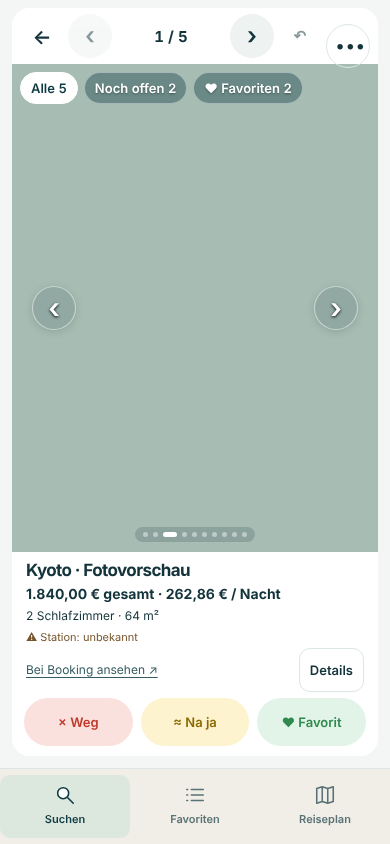
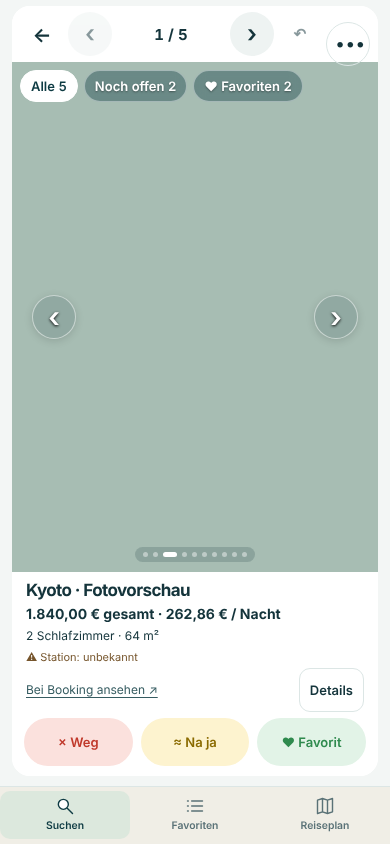
0.35.1: Durchsehen am iPhone (Kopf unter Statusleiste erreichbar, Foto füllt Platz), flachere Leiste unten, Reise/Profil/Technik als ein Bereich im Suchkopf, Suchen oben mit Löschen (W105) (#32)
Claude-Session: https://claude.ai/code/session_01Pp3gvFdCj4nmbdfVrNnz4G

diff --git a/app.js b/app.js
@@ -3,7 +3,7 @@
    Schreibende Aktionen laufen nur nach einem Klick von Sebastian. */
 'use strict';
 
-const APP_VERSION = '0.35.0';
+const APP_VERSION = '0.35.1';
 const API = 'https://sdgzwxiqcijxfpcjpydw.supabase.co/functions/v1/app-api';
 const TOKEN_KEY = 'ks_token';
 
@@ -1022,7 +1022,19 @@ async function viewSuche(idStr, { historyOnly = false } = {}) {
     }
     if (historyOnly) { recent.append(refresh, recentNotice, list); recent.append(el('p', { class: 'small muted' }, 'Hier stehen die letzten zehn Suchaufträge. Die gemeinsame Merkliste umfasst alle Reisen. Rohdaten werden nach 30 Tagen entfernt.')); }
     else { recent.classList.add('recent-compact'); recent.firstElementChild.textContent = 'Deine Suchen'; recent.append(recentNotice, list); }
-    scope.append(recent);
+    // W105 (Sebastian 20.10.): Suchen nicht unten verstecken – ohne Score stehen sie über dem Formular, je Suche „Löschen“ (Papierkorb, 30 Tage)
+    if (!historyOnly && !SUCHE_SCORE_AN) { recent.classList.add('a-suchen'); scope.insertBefore(recent, form); } else scope.append(recent);
+    let undoRow = null;
+    async function loeschen(a) {
+      recentNotice.textContent = '„' + a.ziel + '“ wird gelöscht …';
+      try {
+        await call('unterkunft_suchauftrag_loeschen', { suchauftrag_id: a.id }); if (!live()) return;
+        undoRow = a; await loadRecent();
+        recentNotice.replaceChildren('„' + a.ziel + '“ liegt im Papierkorb (30 Tage). ', el('button', { type: 'button', class: 'link-button', onclick: async () => {
+          try { await call('unterkunft_suchauftrag_wiederherstellen', { suchauftrag_id: undoRow.id }); undoRow = null; if (live()) await loadRecent(); } catch (e) { if (live()) recentNotice.textContent = e.message; }
+        } }, 'Rückgängig'));
+      } catch (e) { if (live()) recentNotice.textContent = /läuft|wartet/.test(e.message) ? 'Diese Suche läuft noch – bitte erst abbrechen.' : e.message; }
+    }
     const historyProfiles = el('section', { class: 'card' }, el('h2', {}, 'Gespeicherte Suchprofile'));
     if (historyOnly) scope.append(historyProfiles);
     async function loadHistoryProfiles() {
@@ -1042,15 +1054,17 @@ async function viewSuche(idStr, { historyOnly = false } = {}) {
         if (!Array.isArray(rows)) throw new Error('Unerwartete Antwort beim Lesen der letzten Suchaufträge.');
         if (!historyOnly) {
           const today = new Date().toISOString().slice(0, 10);
+          const zeile = a => SUCHE_SCORE_AN ? row(a) : el('div', { class: 'recent-line' }, row(a), el('button', { type: 'button', class: 'recent-del', 'aria-label': 'Suche ' + a.ziel + ' löschen', title: 'Löschen (Papierkorb, 30 Tage wiederherstellbar)', disabled: ['laeuft', 'wartet'].includes(a.status), onclick: () => loeschen(a) }, stayIcon('raus')));
           const row = a => el('a', { class: 'recent-row' + (a.abreise < today || ['abgebrochen', 'fehler'].includes(a.status) ? ' is-past' : ''), href: '#/suche/' + a.id },
             el('span', { class: 'recent-date' }, el('b', {}, String(new Date(a.anreise).getDate())), el('small', {}, new Date(a.anreise).toLocaleDateString('de-DE', { month: 'short' }))),
             el('span', { class: 'recent-main' }, el('strong', {}, a.ziel), el('small', {}, `${a.naechte ?? Math.round((Date.parse(a.abreise) - Date.parse(a.anreise)) / 86400000)} Nächte · ${a.treffer ?? '–'} Unterkünfte${sucheZahl(a.gemerkt) > 0 ? ' · ♥ ' + a.gemerkt : ''}${['laeuft', 'wartet'].includes(a.status) ? ' · läuft …' : a.status === 'abgebrochen' ? ' · abgebrochen' : ''}`)),
             el('span', { class: 'recent-go', 'aria-hidden': 'true' }, '›'));
           const sorted = [...rows].sort((x, y) => (y.abreise >= today) - (x.abreise >= today) || String(x.anreise).localeCompare(String(y.anreise)));
           const upcoming = sorted.filter(a => a.abreise >= today && a.status !== 'abgebrochen'), older = sorted.filter(a => !upcoming.includes(a));
-          list.replaceChildren(...upcoming.map(row), older.length ? el('details', { class: 'recent-older' }, el('summary', {}, `Frühere und abgebrochene Suchen (${older.length})`), ...older.map(row)) : '');
+          list.replaceChildren(...upcoming.map(zeile), older.length ? el('details', { class: 'recent-older' }, el('summary', {}, `Frühere und abgebrochene Suchen (${older.length})`), ...older.map(zeile)) : '');
+          recent.hidden = !SUCHE_SCORE_AN && !rows.length;
           if (!rows.length) list.append(el('p', { class: 'muted' }, 'Noch keine Suche. Oben Ort und Daten eintragen.'));
-          recentNotice.textContent = ''; return;
+          if (!undoRow) recentNotice.textContent = ''; return;
         }
         list.replaceChildren(...rows.map((a) => el('article', { class: 'recent-trip' }, el('a', { class: 'recent-trip-content', href: '#/suche/' + a.id }, el('span', { class: 'eyebrow' }, 'Suche #' + a.id), el('strong', {}, a.ziel), el('span', {}, `${fmtDate(a.anreise)}–${fmtDate(a.abreise)}`), el('span', { class: 'recent-trip-meta' }, `${a.treffer ?? '–'} Treffer · ${a.status || 'Status unbekannt'} ↗`)), sucheZahl(a.gemerkt) > 0 ? el('a', { href: '#/suche/' + a.id + '?favoriten=1', class: 'small' }, 'Favoriten in ' + a.ziel) : null)));
         if (!rows.length) list.append(el('div', { class: 'stay-empty' }, el('strong', {}, 'Die nächste Reise beginnt hier.'), el('p', {}, 'Sobald du eine Suche startest, findest du hier ihren Fortschritt und ihre Ergebnisse.'), historyOnly ? el('a', { href: '#/suche' }, 'Erste Unterkunft suchen →') : null));

diff --git a/stay-form.js b/stay-form.js
@@ -421,9 +421,26 @@ function sucheSchnellLayout({ form, fields, sections, extended, submit, call, li
   more.append(extended.profilePanel);
   const tripNode = fields.querySelector('.trip-choice');
   if (tripNode) more.append(tripNode);
-  more.append(el('section', { class: 'card stay-form-panel' }, el('h2', {}, 'Land'), label('land')));
-  const p4 = panel('04'); if (p4) more.append(p4);
-  more.append(...(SUCHE_SCORE_AN ? [extended.tripPanel] : []), extended.qualityPanel, extended.filtersPanel);
+  const landPanel = el('section', { class: 'card stay-form-panel' }, el('h2', {}, 'Land'), label('land'));
+  const p4 = panel('04');
+  if (SUCHE_SCORE_AN) { more.append(landPanel); if (p4) more.append(p4); more.append(extended.tripPanel, extended.qualityPanel, extended.filtersPanel); }
+  else {
+    // W105 (Sebastian 20.10.): „Mehr Optionen“ = Reise & Profil. Technik (Land, Quellen, Suchkosten, Zusatz-Notenfilter) zugeklappt und klar benannt –
+    // keine zweite Notenauswahl neben „Gästenote ab“: der Zusatz-Notenfilter steht dort, ist aber standardmäßig aus.
+    more.querySelector(':scope > summary').replaceChildren(stayIcon('regler'), 'Reise, Profil & Technik');
+    more.querySelector(':scope > p').textContent = 'Welcher Reise die Suche zugeordnet wird, gespeicherte Suchprofile und selten gebrauchte Technik.';
+    extended.profilePanel.querySelector('h2')?.prepend(stayIcon('personen'));
+    tripNode?.querySelector('h2')?.prepend(stayIcon('karte'));
+    p4?.querySelector('.step-number')?.remove(); if (p4?.querySelector('h2')) p4.querySelector('h2').lastChild.textContent = 'Quellen & Suchkosten';
+    const q = extended.qualityPanel.querySelector('input[type="checkbox"]'); if (q && q.checked) { q.checked = false; q.dispatchEvent(new Event('change', { bubbles: true })); }
+    extended.qualityPanel.querySelector('h2').textContent = 'Zusätzlicher Notenfilter';
+    if (tripNode) more.insertBefore(tripNode, extended.profilePanel); // Reise zuerst, dann Profil
+    const technik = el('details', { class: 'a-technik' }, el('summary', {}, stayIcon('info'), 'Technik · Land, Quellen, Suchkosten, Notenfilter'), landPanel, p4, extended.qualityPanel);
+    more.append(technik, extended.filtersPanel);
+    more.classList.add('a-mehr');
+    // W105: kein zweiter Einstieg – „ändern“ in der Reisezeile öffnet diesen Bereich direkt unter dem Kopf
+    quick.insertBefore(more, kopf.nextSibling);
+  }
   // W102: Ohne Score stehen die Kriterien in der Suchmaske – „Filter anpassen“ nur zeigen, wenn dort noch etwas übrig ist (z. B. Viertel).
   const filterAufraeumen = () => {
     if (SUCHE_SCORE_AN) return;
@@ -442,7 +459,7 @@ function sucheSchnellLayout({ form, fields, sections, extended, submit, call, li
   const restoreWho = () => { if (remembered && typeof remembered === 'object') for (const k of whoKeys) { const i = form.querySelector(`[name="${k}"]`); if (i && typeof remembered[k] === 'string') i.value = remembered[k]; } wohnen.feld(); budgetNacht?.ausGesamt(); form.dispatchEvent(new Event('input')); };
   restoreWho();
   form.addEventListener('submit', () => { const v = {}; for (const k of whoKeys) v[k] = String(form.querySelector(`[name="${k}"]`)?.value ?? ''); stayWrite('ks_who_last', v); }, true);
-  fields.replaceChildren(gaps, quick, more);
+  fields.replaceChildren(...[gaps, quick, SUCHE_SCORE_AN ? more : null].filter(Boolean));
   const datum = sucheDatumBereich(form); ortZeit.insertBefore(datum.node, who); datum.node.querySelector('.dr-knopf').after(nights); // W103/W104: Wann-Zeile mit Nächten
   wohnen.feld(); // W96: Feld erst jetzt im Formular erreichbar
   function update() {
@@ -460,7 +477,8 @@ function sucheSchnellLayout({ form, fields, sections, extended, submit, call, li
     if (!state.ready) { tripLine.textContent = 'Reise wird geladen …'; return; }
     if (state.needsChoice) { tripLine.replaceChildren('Bitte Aufenthalt wählen: '); if (state.node.parentElement !== quick) quick.insertBefore(state.node, submit); state.node.classList.add('needs-choice'); return; }
     if (state.node.parentElement === quick) { more.insertBefore(state.node, more.children[2] || null); state.node.classList.remove('needs-choice'); }
-    tripLine.replaceChildren(`${state.reise} · ${state.stage === 'new' ? 'neuer Aufenthalt' : state.stageText} `, el('button', { type: 'button', class: 'link-button', onclick: () => { more.open = true; tripNode?.scrollIntoView({ block: 'center' }); } }, 'ändern'));
+    tripLine.replaceChildren(`${state.reise} · ${state.stage === 'new' ? 'neuer Aufenthalt' : state.stageText} `, SUCHE_SCORE_AN ? el('button', { type: 'button', class: 'link-button', onclick: () => { more.open = true; tripNode?.scrollIntoView({ block: 'center' }); } }, 'ändern')
+      : el('button', { type: 'button', class: 'link-button a-mehr-knopf', 'aria-expanded': String(more.open), onclick: e => { more.open = !more.open; e.currentTarget.setAttribute('aria-expanded', String(more.open)); e.currentTarget.textContent = more.open ? 'schließen' : 'ändern'; } }, more.open ? 'schließen' : 'ändern'));
   };
   onTrip(trip);
   call('unterkunft_etappen_lesen').then(r => {

diff --git a/style.css b/style.css
@@ -1801,3 +1801,43 @@ button.mk-tag { position: absolute; top: -7px; right: -5px; width: 20px; height:
 .a-ergebnis .stay-run-summary .run-line { line-height: 1.35; }
 .a-ergebnis > .result-view-switch, .a-ergebnis > .filter-box, .a-ergebnis > .result-jumps { margin-bottom: 8px; }
 .quick-search .a-reise > .who-chip.a-zeile { border-top: 1px solid #edf2f1; } @media (min-width: 720px) { .quick-search .a-reise > .who-chip.a-zeile { border-top: 0; border-left: 1px solid #edf2f1; } }
+/* W105 (Sebastian 20.10., iPhone): Durchsehen – Kopf unter der Statusleiste erreichbar, Foto füllt den freien Platz, Leiste unten flacher */
+body:has(.tinder-mode) main.view { padding-top: calc(6px + env(safe-area-inset-top)) !important; }
+.tinder-mode { height: calc(100dvh - var(--tabs-h) - 16px - env(safe-area-inset-bottom) - env(safe-area-inset-top)) !important; }
+.a-ergebnis.tinder-mode .review-card { display: flex !important; flex-direction: column; }
+.a-ergebnis.tinder-mode .review-card > .review-content { flex: 1 1 auto; min-height: 0; display: flex; flex-direction: column; overflow-y: auto; }
+.a-ergebnis.tinder-mode .review-card > .review-content > .stay-gallery { flex: 1 0 auto; min-height: 46%; max-height: none !important; height: auto !important; }
+.a-ergebnis.tinder-mode .review-card > .review-content > .stay-gallery .stay-photo, .a-ergebnis.tinder-mode .review-card > .review-content > .stay-gallery img { height: 100% !important; max-height: none !important; }
+.a-ergebnis.tinder-mode .review-card > .review-content > .review-desk-info { display: none; }
+.a-ergebnis.tinder-mode .review-actions > button.a-entscheid { height: 50px; min-height: 50px; flex-direction: row; gap: 6px; }
+@media (min-width: 800px) { .a-ergebnis.tinder-mode .review-card > .review-content > .review-desk-info { display: block; } }
+@media (max-width: 799px) {
+  :root { --tabs-h: 58px; }
+  nav.tabs { padding-top: 4px; }
+  nav.tabs button { gap: 2px; font-size: .65rem; padding: 3px 2px; }
+  nav.tabs svg { width: 20px; height: 20px; }
+}
+/* W105: Reise, Profil & Technik direkt im Suchkopf (ein Einstieg), Suchen oben mit Löschen */
+.quick-search > .more-options.a-mehr { margin: 0; padding: 0; border: 0; box-shadow: none; background: transparent; }
+.quick-search > .more-options.a-mehr > summary { display: none; }
+.quick-search > .more-options.a-mehr > p { margin: 0 2px 6px; }
+.quick-search > .more-options.a-mehr[open] { border: 1px solid var(--a-line); border-radius: 16px; padding: 10px; background: #f8faf9; }
+.more-options.a-mehr > .card { margin: 0 0 8px !important; padding: 12px !important; border: 1px solid var(--a-line) !important; border-radius: 14px !important; background: #fff !important; box-shadow: none !important; }
+.more-options.a-mehr h2 { display: flex; align-items: center; gap: 8px; margin: 0 0 8px; font-size: 15px; }
+.more-options.a-mehr h2 .ic { color: var(--a-teal); }
+.a-technik { border: 1px dashed #c9d6d4; border-radius: 14px; padding: 0 10px; background: #fff; }
+.a-technik > summary { display: flex; align-items: center; gap: 8px; min-height: 44px; font-size: 13.5px; font-weight: 700; color: var(--a-muted); cursor: pointer; list-style: none; }
+.a-technik > summary::-webkit-details-marker { display: none; }
+.a-technik[open] { padding-bottom: 10px; }
+.a-technik > .card { margin: 0 0 8px !important; box-shadow: none !important; border: 1px solid var(--a-line) !important; border-radius: 12px !important; padding: 10px !important; background: #fafcfb !important; }
+.a-technik h2 { font-size: 14px; margin: 0 0 6px; }
+.recent-searches.a-suchen { margin-bottom: 10px; padding: 12px 14px; }
+.a-suchen > h2 { margin: 0 0 4px; font-size: 12px; font-weight: 800; letter-spacing: .06em; text-transform: uppercase; color: var(--a-muted); }
+.recent-line { display: flex; align-items: center; gap: 4px; border-bottom: 1px solid #eef2f1; }
+.recent-line > .recent-row { flex: 1; min-width: 0; border-bottom: 0; }
+.recent-del { flex: none; width: 40px; height: 40px; min-height: 40px; padding: 0; border: 0; border-radius: 50%; background: transparent; color: #9aabaa; display: flex; align-items: center; justify-content: center; }
+.recent-del:hover, .recent-del:focus-visible { background: #fbe1dd; color: var(--a-out); }
+.recent-del:disabled { opacity: .3; }
+.recent-del .ic { width: 16px; height: 16px; }
+.quick-search > button.primary[type=submit] { bottom: calc(var(--tabs-h) + 18px + env(safe-area-inset-bottom)); }
+.more-options.a-mehr .search-profiles .actions { display: flex; flex-wrap: wrap; gap: 8px; } .more-options.a-mehr .search-profiles .actions > button { min-height: 40px; padding: 0 12px; font-size: 13.5px; }

diff --git a/index.html b/index.html
@@ -14,23 +14,23 @@
 <link rel="icon" href="icon.svg" type="image/svg+xml">
 <link rel="apple-touch-icon" href="icon-180.png">
 <link rel="stylesheet" href="vendor/leaflet-1.9.4/leaflet.css">
-<link rel="stylesheet" href="style.css?v=0.35.0">
+<link rel="stylesheet" href="style.css?v=0.35.1">
 <script src="https://cdnjs.cloudflare.com/ajax/libs/marked/15.0.7/marked.min.js" defer></script>
 <script src="vendor/leaflet-1.9.4/leaflet.js" defer></script>
-<script src="stay-tools.js?v=0.35.0" defer></script>
-<script src="stay-research.js?v=0.35.0" defer></script>
-<script src="stay-form.js?v=0.35.0" defer></script>
-<script src="stay-details.js?v=0.35.0" defer></script>
-<script src="stay-districts.js?v=0.35.0" defer></script>
-<script src="stay-review.js?v=0.35.0" defer></script>
-<script src="stay-desk.js?v=0.35.0" defer></script>
-<script src="stay-photos.js?v=0.35.0" defer></script>
-<script src="stay-trips.js?v=0.35.0" defer></script>
-<script src="stay-compare.js?v=0.35.0" defer></script>
-<script src="stay-refresh.js?v=0.35.0" defer></script>
-<script src="stay-workplace.js?v=0.35.0" defer></script>
-<script src="stay-notifications.js?v=0.35.0" defer></script>
-<script src="app.js?v=0.35.0" defer></script>
+<script src="stay-tools.js?v=0.35.1" defer></script>
+<script src="stay-research.js?v=0.35.1" defer></script>
+<script src="stay-form.js?v=0.35.1" defer></script>
+<script src="stay-details.js?v=0.35.1" defer></script>
+<script src="stay-districts.js?v=0.35.1" defer></script>
+<script src="stay-review.js?v=0.35.1" defer></script>
+<script src="stay-desk.js?v=0.35.1" defer></script>
+<script src="stay-photos.js?v=0.35.1" defer></script>
+<script src="stay-trips.js?v=0.35.1" defer></script>
+<script src="stay-compare.js?v=0.35.1" defer></script>
+<script src="stay-refresh.js?v=0.35.1" defer></script>
+<script src="stay-workplace.js?v=0.35.1" defer></script>
+<script src="stay-notifications.js?v=0.35.1" defer></script>
+<script src="app.js?v=0.35.1" defer></script>
 </head>
 <body>
 

diff --git a/sw.js b/sw.js
@@ -1,7 +1,7 @@
 // Service Worker: hält nur die App-Hülle vor (Dateien dieser Seite). Daten kommen immer live von app-api.
 const CACHE_PREFIX = 'ki-system:' + self.registration.scope + ':';
-const CACHE = CACHE_PREFIX + 'v50';
-const HUELLE = ['./', './index.html', './stay-compare.js?v=0.35.0', './stay-refresh.js?v=0.35.0', './stay-workplace.js?v=0.35.0', './stay-notifications.js?v=0.35.0', './stay-photos.js?v=0.35.0', './stay-trips.js?v=0.35.0', './stay-review.js?v=0.35.0', './stay-desk.js?v=0.35.0', './app.js?v=0.35.0', './stay-tools.js?v=0.35.0', './stay-research.js?v=0.35.0', './stay-form.js?v=0.35.0', './stay-details.js?v=0.35.0', './stay-districts.js?v=0.35.0', './vendor/leaflet-1.9.4/leaflet.js', './vendor/leaflet-1.9.4/leaflet.css', './style.css?v=0.35.0', './manifest.webmanifest', './icon.svg', './icon-180.png', './icon-512.png'];
+const CACHE = CACHE_PREFIX + 'v51';
+const HUELLE = ['./', './index.html', './stay-compare.js?v=0.35.1', './stay-refresh.js?v=0.35.1', './stay-workplace.js?v=0.35.1', './stay-notifications.js?v=0.35.1', './stay-photos.js?v=0.35.1', './stay-trips.js?v=0.35.1', './stay-review.js?v=0.35.1', './stay-desk.js?v=0.35.1', './app.js?v=0.35.1', './stay-tools.js?v=0.35.1', './stay-research.js?v=0.35.1', './stay-form.js?v=0.35.1', './stay-details.js?v=0.35.1', './stay-districts.js?v=0.35.1', './vendor/leaflet-1.9.4/leaflet.js', './vendor/leaflet-1.9.4/leaflet.css', './style.css?v=0.35.1', './manifest.webmanifest', './icon.svg', './icon-180.png', './icon-512.png'];
 const HUELLE_URLS = new Set(HUELLE.map(path => new URL(path, self.registration.scope).href));
 
 self.addEventListener('install', (e) => {
